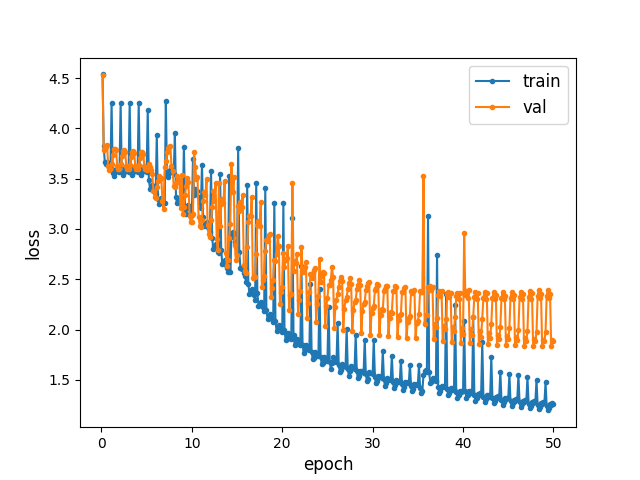
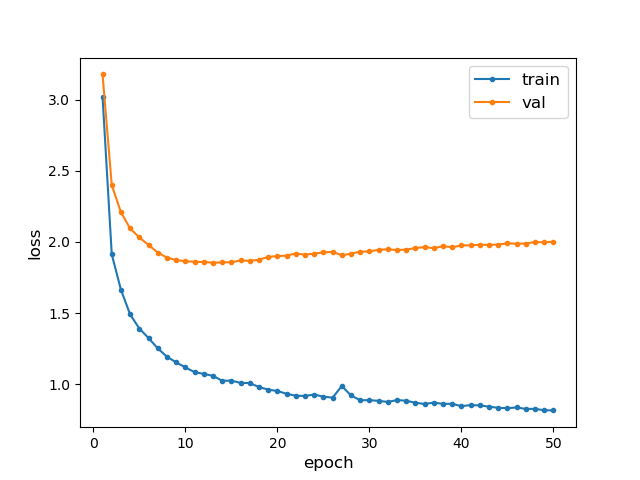
avg loss epoch

diff --git a/plot_loss.py b/plot_loss.py
@@ -7,26 +7,33 @@ from lstm import Evaluation, check_cuda
 print('---> check cuda')
 use_cuda, _, _ = check_cuda()
 print('cuda: %s' % 'yes' if use_cuda else 'no')
-if use_cuda: 
+if use_cuda:
 	loc = 'cuda'
-else: 
+else:
 	loc = 'cpu'
 
 print('---> loading checkpoint')
-checkpoint = torch.load('checkpoint0.pth.tar', map_location=loc)
+checkpoint = torch.load('best model/checkpoint14.pth.tar', map_location=loc)
 evaluate = checkpoint['history']
 losses = []
 print('----> Reading history')
 for epoch in evaluate.history:
     print('epoch %i:' % epoch, end=' ')
     count = len(evaluate.history[epoch])
-    for i, (train_loss, val_loss) in enumerate(evaluate.history[epoch]):
-        print('[%i]' % i, end='->')
-        losses.append((epoch-1+(i+1)/count, train_loss, val_loss))
+    sum_train_loss, sum_val_loss = 0, 0
+    # for i, (train_loss, val_loss) in enumerate(evaluate.history[epoch]):
+    for train_loss, val_loss in evaluate.history[epoch]:
+        # print('[%i]' % i, end='->')
+        print('->', end='')
+        sum_train_loss += train_loss
+        sum_val_loss += val_loss
+        # losses.append((epoch-1+(i+1)/count, train_loss, val_loss))
+    losses.append((epoch, sum_train_loss/count, sum_val_loss/count))
     print('', end='\n')
 plotx, train_loss, val_loss = zip(*losses)
 
 # plot
+plt.figure()
 plt.plot(plotx, train_loss, '.-', label='train')
 plt.plot(plotx, val_loss, '.-', label='val')
 fontsize = 12
